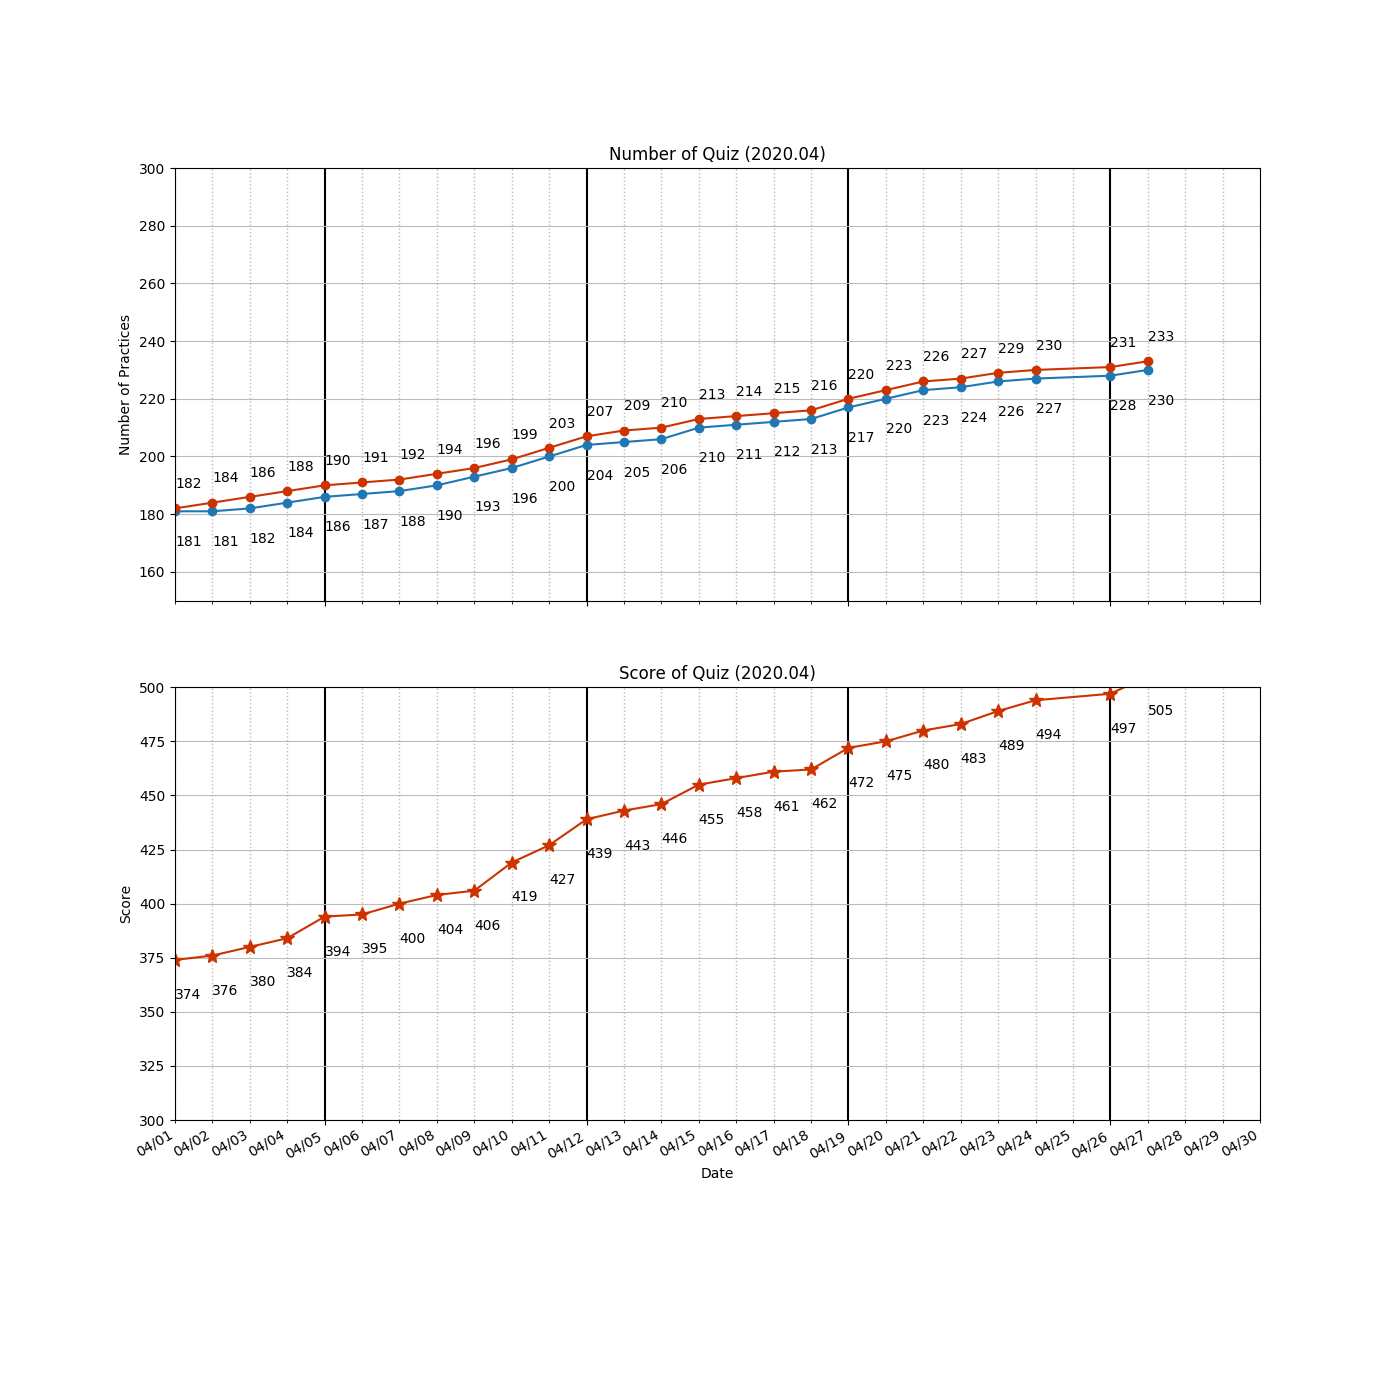
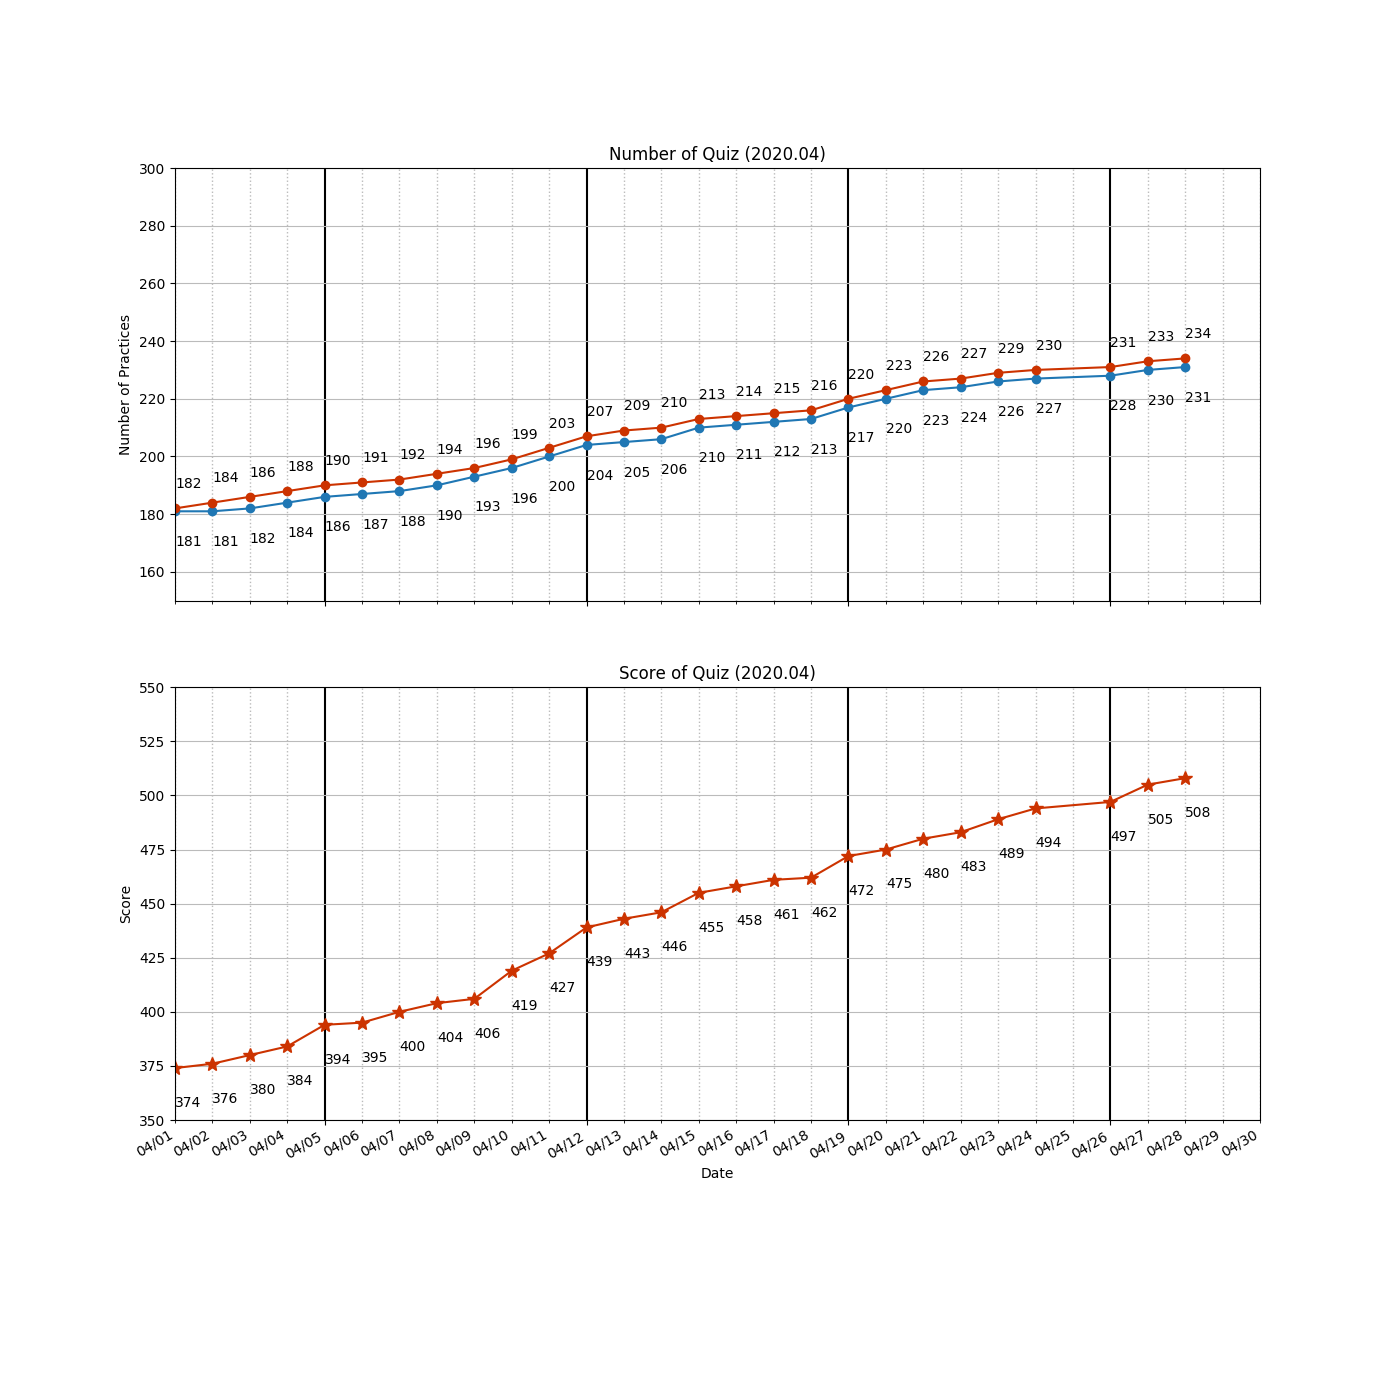
Added _0695_MaxAreaOfIsland.py

diff --git a/algo/bfs/_0695_MaxAreaOfIsland.py b/algo/bfs/_0695_MaxAreaOfIsland.py
@@ -1,0 +1,86 @@
+class Solution:
+    
+    #BFS [24%]
+    def maxAreaOfIsland(self, grid: List[List[int]]) -> int:
+        if len(grid) == 0 or len(grid[0]) == 0:
+            return 0
+        if len(grid) == 1 and len(grid[0]) == 1:
+            if grid[0][0] == 0:
+                return 0
+            else:
+                return 1
+        
+        deque = collections.deque([])
+        visited = set()
+        ans = [0, 0]  #max area, cur area
+        directions = [(1,0), (-1,0), (0,1), (0,-1)]
+        
+        for i in range(len(grid)):
+            print(grid[i])
+        
+        for i in range(len(grid)):
+            for j in range(len(grid[0])):
+                if grid[i][j] == 0 or (i,j) in visited:
+                    continue
+                visited.add((i,j))
+                if grid[i][j] == 1:
+                    ans[1] = 1
+                    ans[0] = max(ans[0], ans[1])
+                    deque.append((i,j))
+                    while deque:
+                        cur = deque.popleft()
+                        #print(cur, ans)
+                        for d in directions:
+                            nxt = (cur[0] + d[0], cur[1] + d[1])
+                            if (nxt[0] < 0 or nxt[0] == len(grid) or
+                                nxt[1] < 0 or nxt[1] == len(grid[0]) or
+                                grid[nxt[0]][nxt[1]] == 0 or
+                                nxt in visited): 
+                                continue
+                            ans[1] += 1
+                            ans[0] = max(ans[0], ans[1])
+                            #print(" ", ans)
+                            deque.append(nxt)
+                            visited.add(nxt)
+                    ans[1] = 0
+        return ans[0]
+                
+    # DFS, wrong!!
+#     def maxAreaOfIsland1(self, grid: List[List[int]]) -> int:
+#         if len(grid) == 0 or len(grid[0]) == 0:
+#             return 0
+        
+#         visited = set()
+#         ans = [0, 0]  #max area, cur area
+        
+#         for i in range(len(grid)):
+#             print(grid[i])
+        
+#         for i in range(len(grid)):
+#             for j in range(len(grid[0])):
+#                 self.helper(grid, (i, j), visited, ans)
+                
+#         return ans[0]
+                
+    
+#     def helper(self, grid, cur, visited, ans):
+#         if cur[0] == len(grid) or cur[1] == len(grid[0]):
+#             return 
+#         if cur in visited:
+#             return 
+#         if grid[cur[0]][cur[1]] == 0:
+#             ans[1] = 0
+#             return 
+        
+#         visited.add(cur)
+    
+#         ans[1] += 1 
+#         ans[0] = max(ans[0], ans[1])
+#         print(cur, ans)
+            
+#         directions = [(1,0), (-1,0), (0,1), (0,-1)]
+#         for d in directions:
+#             nxt = (cur[0] + d[0], cur[1] + d[1])
+#             visited.add(nxt)
+#             self.helper(grid, nxt, visited, ans)
+        

diff --git a/algodraw.py b/algodraw.py
@@ -151,7 +151,7 @@ def draw(dates, values):
     axs[1].set(xlabel="Date", ylabel="Score",
         title="Score of Quiz (2020.04)")
     #ax2.set_xlim(datetime.datetime(2020,4,1), datetime.datetime(2020,4,30)) 
-    axs[1].set_ylim(300,500) #score of quiz
+    axs[1].set_ylim(350,550) #score of quiz
     axs[1].grid(which='major', color='k', axis ='x', linestyle='-', linewidth=1.5)
     axs[1].grid(which='minor', color='#bbbbbb', axis ='x', linestyle=':', linewidth=1)
     axs[1].grid(which='major', color='#bbbbbb', axis ='y')

diff --git a/README.md b/README.md
@@ -50,6 +50,7 @@ algo
 │   ├── _0200_NumberOfIslands.py
 │   ├── _0207_CourseSchedule.py
 │   ├── _0210_CourseSchedule2.py
+│   ├── _0695_MaxAreaOfIsland.py
 │   └── _1197_MinimumKnightMoves.py
 ├── binary-search
 │   ├── _0033_SearchInRotatedSortedArray.py
@@ -254,7 +255,7 @@ algo
     ├── _0127_WordLadder.py
     └── wordladder.py
 
-21 directories, 232 files
+21 directories, 233 files
 
 =====================================
 ============= Local Repo ============
@@ -448,6 +449,7 @@ _0674_LongestContinuousIncreasingSubsequence.py
 _0688_KnightProbabilityInChessboard.py
 _0690_EmployeeImportance.py
 _0692_TopKFrequentWords.py
+_0695_MaxAreaOfIsland.py
 _0700_SearchInABinarySearchTree.py
 _0701_InsertIntoABinarySearchTree.py
 _0703_KthLargestElementInAStream.py
@@ -490,7 +492,7 @@ _1300_SumOfMutatedArrayClosestToTarget.py
 _1358_NumberOfSubstringsContainingAllThreeCharacters.py
 _1391_CheckIfThereIsAValidPathInAGrid.py
 =====================================
-Num of Python Practice:  230
+Num of Python Practice:  231
 
 
 =====================================
@@ -688,6 +690,7 @@ Num of Python Practice:  230
  0688 Knight Probability in Chessboard
  0690 Employee Importance
  0692 Top K Frequent Words
+ 0695 Max Area of Island
  0700 Search in a Binary Search Tree
  0701 Insert into a Binary Search Tree
  0703 Kth Largest Element in a Stream
@@ -731,10 +734,10 @@ Num of Python Practice:  230
  1391 Check if There is a Valid Path in a Grid
 =====================================
 Solved / Total (Easy)  :  108 /  399
-Solved / Total (Medium):  114 /  727
+Solved / Total (Medium):  115 /  727
 Solved / Total (Hard)  :   11 /  299
-Solved / Total (All)   :  233 / 1425
-Total Score            :  505
+Solved / Total (All)   :  234 / 1425
+Total Score            :  508
 =====================================
 
 ```
